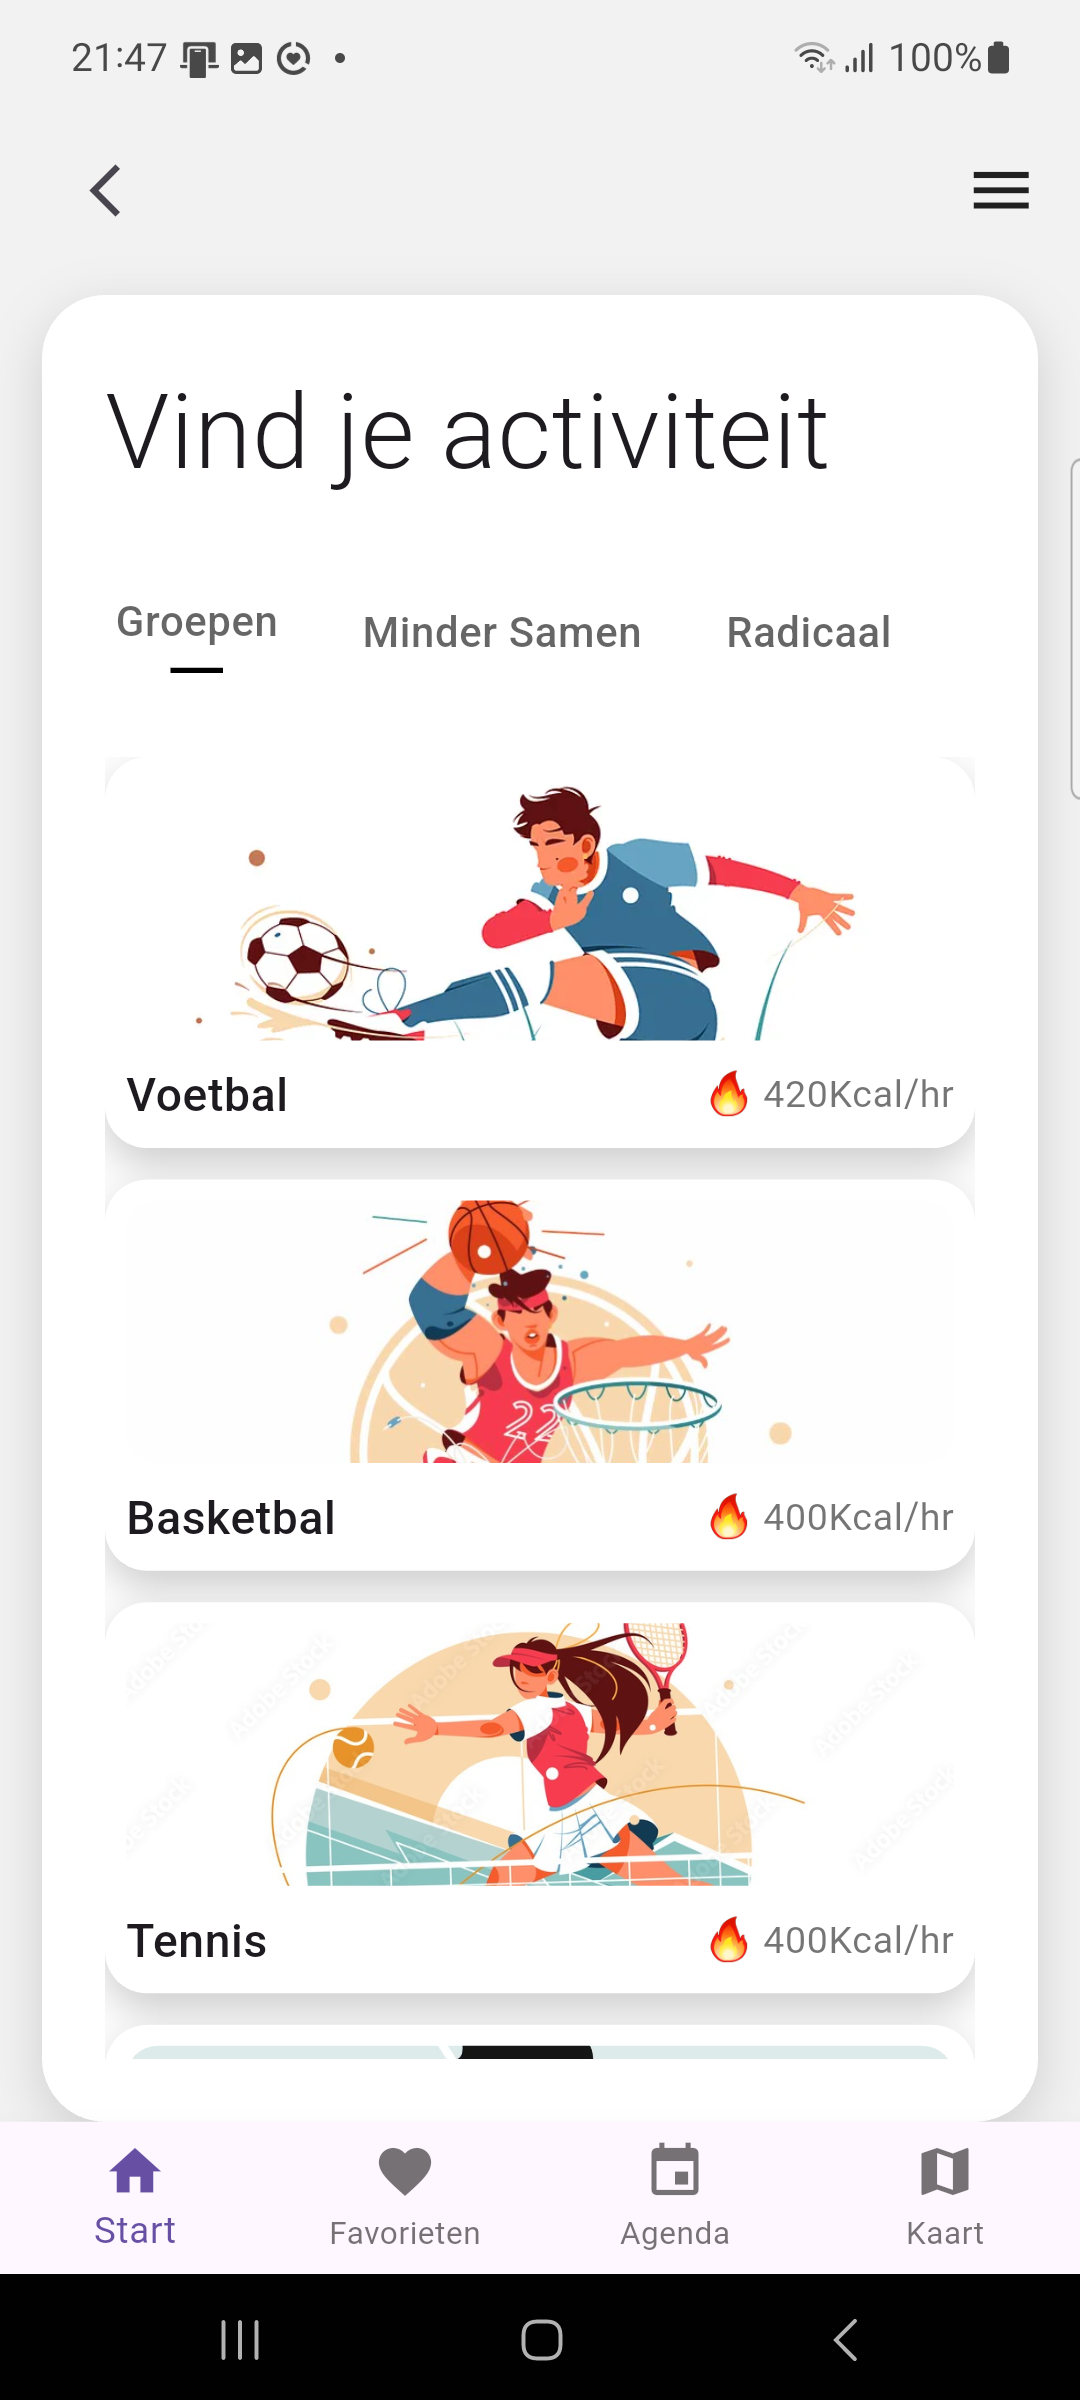
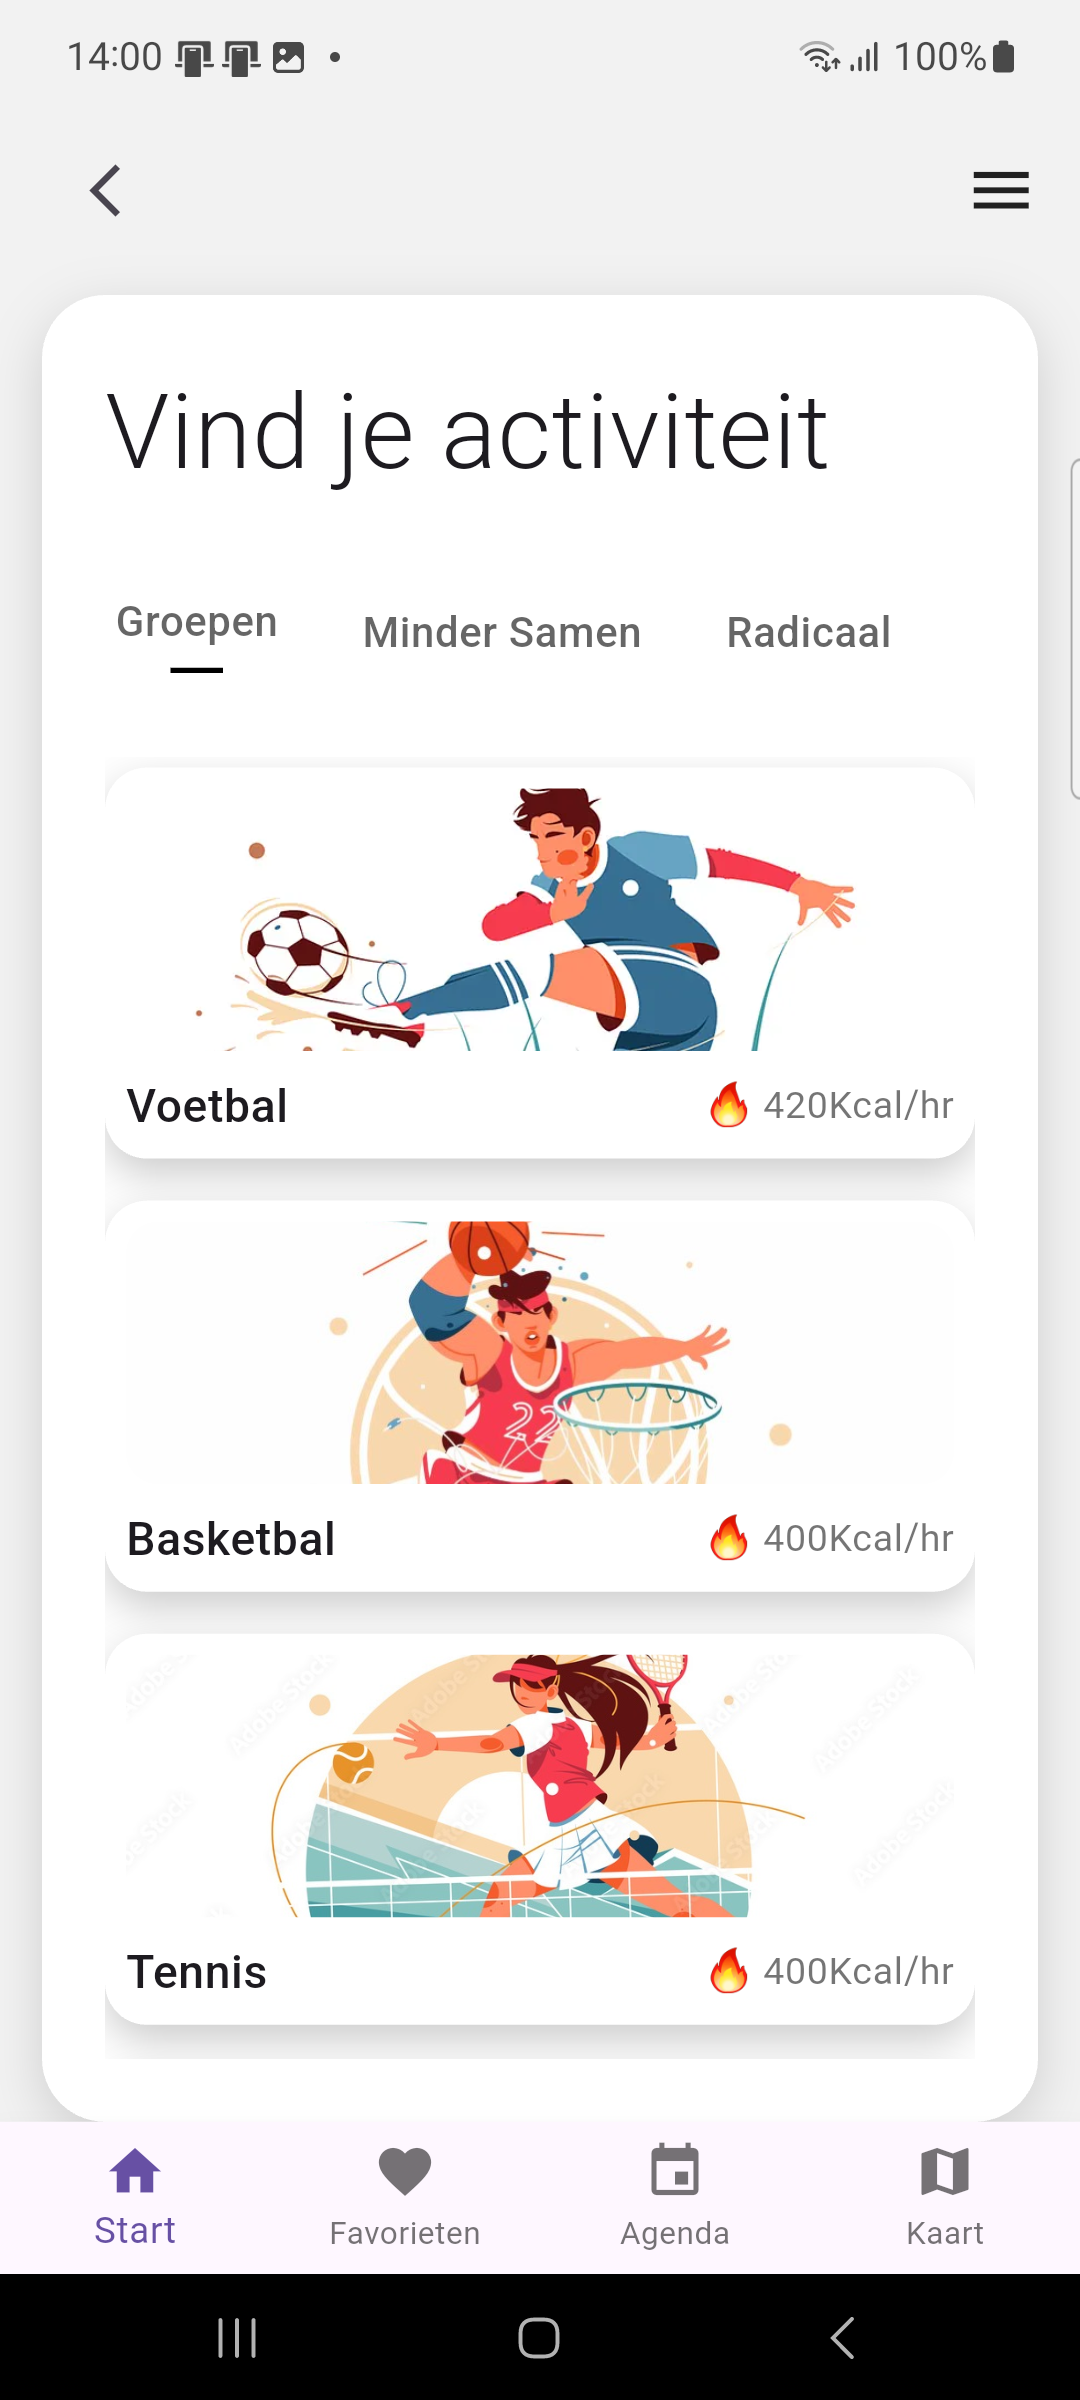
after_adding_more_sports

diff --git a/lib/screens/activities/activities_screen.dart b/lib/screens/activities/activities_screen.dart
@@ -5,8 +5,11 @@ import 'package:move_young/screens/activities/sports_screens/tennis.dart';
 import 'package:move_young/screens/activities/sports_screens/beachvolleyball.dart';
 import 'package:move_young/screens/activities/sports_screens/table_tennis.dart';
 import 'package:move_young/screens/activities/sports_screens/fitness.dart';
+import 'package:move_young/screens/activities/sports_screens/climbing.dart';
 import 'package:move_young/screens/activities/sports_screens/skateboard.dart';
 import 'package:move_young/screens/activities/sports_screens/bmx.dart';
+import 'package:move_young/screens/activities/sports_screens/motocross.dart';
+
 import 'package:move_young/widgets/activity_category_page.dart';
 import 'package:easy_localization/easy_localization.dart';
 
@@ -47,21 +50,25 @@ class _ActivitiesScreenState extends State<ActivitiesScreen> {
         'title': 'soccer',
         'image': 'assets/images/soccer.webp',
         'calories': '420Kcal/hr',
+        'align': '0,-0.4'
       },
       {
         'title': 'basketball',
         'image': 'assets/images/basketball.jpg',
         'calories': '400Kcal/hr',
+        'align': '0,-0.4'
       },
       {
         'title': 'tennis',
         'image': 'assets/images/tennis.jpg',
         'calories': '400Kcal/hr',
+        'align': '0,-0.4'
       },
       {
         'title': 'beachvolleyball',
         'image': 'assets/images/bvb.webp',
         'calories': '250Kcal/hr',
+        'align': '0,-0.4'
       },
       {
         'title': 'table_tennis',
@@ -74,18 +81,39 @@ class _ActivitiesScreenState extends State<ActivitiesScreen> {
         'title': 'fitness',
         'image': 'assets/images/fitness_station.jpg',
         'calories': '300Kcal/hr',
+        'align': '0,-0.4'
       },
+      {
+        'title': 'climbing',
+        'image': 'assets/images/climbing.webp',
+        'calories': '300Kcal/hr',
+        'align': '0,-0.4'
+      },
+      {
+        'title': 'canoeing',
+        'image': 'assets/images/canoeing.webp',
+        'calories': '300Kcal/hr',
+        'align': '0,0.2'
+      }
     ],
     'radical': [
       {
         'title': 'skateboard',
         'image': 'assets/images/skateboarding2.webp',
         'calories': '350Kcal/hr',
+        'align': '0,-0.4'
       },
       {
         'title': 'bmx',
         'image': 'assets/images/bmx.webp',
         'calories': '350Kcal/hr',
+        'align': '0,-0.4'
+      },
+      {
+        'title': 'motocross',
+        'image': 'assets/images/motocross.webp',
+        'calories': '350Kcal/hr',
+        'align': '0,-0.1'
       },
     ],
   };
@@ -115,13 +143,18 @@ class _ActivitiesScreenState extends State<ActivitiesScreen> {
       case 'fitness':
         screen = const FitnessScreen();
         break;
-
+      case 'climbing':
+        screen = const ClimbingScreen();
+        break;
       //Radical
       case 'skateboard':
         screen = const SkateboardScreen();
         break;
       case 'bmx':
         screen = const BmxScreen();
+        break;
+      case 'motocross':
+        screen = const MotocrossScreen();
         break;
     }
 

diff --git a/lib/widgets/activity_category_page.dart b/lib/widgets/activity_category_page.dart
@@ -23,6 +23,27 @@ class _ActivityCategoryPageState extends State<ActivityCategoryPage>
   @override
   bool get wantKeepAlive => true;
 
+  Alignment _parseAlignment(String? v) {
+    switch (v) {
+      case 'top':
+        return Alignment.topCenter;
+      case 'bottom':
+        return Alignment.bottomCenter;
+      case 'left':
+        return Alignment.centerLeft;
+      case 'right':
+        return Alignment.centerRight;
+      case 'center':
+        return Alignment.center;
+      default:
+        if (v == null || !v.contains(',')) return Alignment.center;
+        final parts = v.split(',');
+        final dx = double.tryParse(parts[0].trim()) ?? 0.0;
+        final dy = double.tryParse(parts[1].trim()) ?? 0.0;
+        return Alignment(dx, dy); // e.g. "0,-0.6"
+    }
+  }
+
   @override
   Widget build(BuildContext context) {
     super.build(context); // ⚠ required!
@@ -32,10 +53,13 @@ class _ActivityCategoryPageState extends State<ActivityCategoryPage>
       itemCount: widget.activities.length,
       itemBuilder: (context, index) {
         final activity = widget.activities[index];
+        final Alignment imageAlignment = _parseAlignment(activity['align']);
+
         return ActivityCard(
           title: activity['title']!.tr(),
-          imageUrl: activity['image']!,
-          calories: activity['calories']!,
+          imageUrl: activity['image'] ?? '',
+          calories: activity['calories'] ?? '',
+          imageAlignment: imageAlignment,
           onTap: () => widget.onTapActivity(activity['title']!),
         );
       },

diff --git a/lib/widgets/activity_card.dart b/lib/widgets/activity_card.dart
@@ -5,6 +5,7 @@ class ActivityCard extends StatelessWidget {
   final String imageUrl;
   final String calories;
   final VoidCallback onTap;
+  final Alignment imageAlignment;
 
   const ActivityCard({
     super.key,
@@ -12,6 +13,7 @@ class ActivityCard extends StatelessWidget {
     required this.imageUrl,
     required this.calories,
     required this.onTap,
+    this.imageAlignment = Alignment.center, // default
   });
 
   @override
@@ -19,7 +21,7 @@ class ActivityCard extends StatelessWidget {
     final isNetworkImage = imageUrl.startsWith('http');
 
     return Container(
-      margin: const EdgeInsets.only(bottom: 12),
+      margin: const EdgeInsets.only(top: 4, bottom: 12),
       decoration: BoxDecoration(
         color: Colors.white,
         borderRadius: BorderRadius.circular(16),
@@ -46,13 +48,14 @@ class ActivityCard extends StatelessWidget {
                         height: 100,
                         width: double.infinity,
                         fit: BoxFit.cover,
+                        alignment: imageAlignment,
                       )
                     : Image.asset(
                         imageUrl,
-                        alignment: const Alignment(0.0, -0.5),
                         height: 100,
                         width: double.infinity,
                         fit: BoxFit.cover,
+                        alignment: imageAlignment,
                       ),
               ),
               const SizedBox(height: 8),

diff --git a/lib/config/sport_display_registry.dart b/lib/config/sport_display_registry.dart
@@ -4,8 +4,11 @@ import 'package:move_young/screens/activities/sports_screens/tennis.dart';
 import 'package:move_young/screens/activities/sports_screens/beachvolleyball.dart';
 import 'package:move_young/screens/activities/sports_screens/table_tennis.dart';
 import 'package:move_young/screens/activities/sports_screens/fitness.dart';
+import 'package:move_young/screens/activities/sports_screens/climbing.dart';
+import 'package:move_young/screens/activities/sports_screens/canoeing.dart';
 import 'package:move_young/screens/activities/sports_screens/skateboard.dart';
 import 'package:move_young/screens/activities/sports_screens/bmx.dart';
+import 'package:move_young/screens/activities/sports_screens/motocross.dart';
 
 class SportDisplayRegistry {
   static final Map<String, Map<String, List<dynamic>>> _iconMapRegistry = {
@@ -17,9 +20,12 @@ class SportDisplayRegistry {
     'table_tennis': TableTennisDisplay.tagIcons,
     //Not so Grouped
     'fitness': FitnessDisplay.tagIcons,
+    'climbing': ClimbingDisplay.tagIcons,
+    'canoeing': CanoingDisplay.tagIcons,
     //Radical
     'skateboard': SkateboardDisplay.tagIcons,
-    'bmx': BmxDisplay.tagIcons
+    'bmx': BmxDisplay.tagIcons,
+    'motocross': MotocrossDisplay.tagIcons
   };
 
   static Map<String, List<dynamic>> getIconMap(String sportType) {

diff --git a/lib/config/sport_characteristics_registry.dart b/lib/config/sport_characteristics_registry.dart
@@ -7,14 +7,18 @@ class SportCharacteristics {
     //Grouped
     'soccer': ['surface', 'lit'],
     'basketball': ['surface', 'lit', 'hoops'],
-    'tennis': ['surface', 'lit'], //to confirm these are free and public
+    'tennis': ['lit'], //to confirm these are free and public
     'beachvolleyball': ['surface', 'lit'],
     'table_tennis': ['indoor', 'covered'],
     //Not so grouped
+    'fitness': ['lit'],
+    'climbing': [],
+    'canoeing': [],
 
     //Radical
     'skateboard': ['surface'],
-    'fitness': ['equipment'],
+    'bmx': [],
+    'motocross': []
   };
 
   //Raw OSM values
@@ -31,13 +35,18 @@ class SportCharacteristics {
       'surface': ['sand']
     },
     'table_tennis': {},
+
     //Not so grouped
     'fitness': {},
+    'climbing': {},
+    'canoeing': {},
+
     //Radical
     'skateboard': {
       'surface': ['concrete', 'wood']
     },
     'bmx': {},
+    'motocross': {}
   };
 
   static const Map<String, String> surfaceLabels = {

diff --git a/lib/screens/activities/sports_screens/climbing.dart b/lib/screens/activities/sports_screens/climbing.dart
@@ -1,0 +1,21 @@
+import 'package:flutter/material.dart';
+import 'package:move_young/screens/activities/sports_screens/generic_sport_screen.dart';
+import 'package:easy_localization/easy_localization.dart';
+
+class ClimbingScreen extends StatelessWidget {
+  const ClimbingScreen({super.key});
+
+  @override
+  Widget build(BuildContext context) {
+    return GenericSportScreen(
+      title: 'climbing'.tr(),
+      sportType: 'climbing',
+    );
+  }
+}
+
+class ClimbingDisplay {
+  static final Map<String, List<dynamic>> tagIcons = {
+    'lit': [Icons.lightbulb, Colors.amber],
+  };
+}

diff --git a/lib/screens/activities/sports_screens/motocross.dart b/lib/screens/activities/sports_screens/motocross.dart
@@ -1,0 +1,21 @@
+import 'package:flutter/material.dart';
+import 'package:move_young/screens/activities/sports_screens/generic_sport_screen.dart';
+import 'package:easy_localization/easy_localization.dart';
+
+class MotocrossScreen extends StatelessWidget {
+  const MotocrossScreen({super.key});
+
+  @override
+  Widget build(BuildContext context) {
+    return GenericSportScreen(
+      title: 'canoing'.tr(),
+      sportType: 'canoe',
+    );
+  }
+}
+
+class MotocrossDisplay {
+  static final Map<String, List<dynamic>> tagIcons = {
+    'lit': [Icons.lightbulb, Colors.amber],
+  };
+}

diff --git a/lib/screens/activities/sports_screens/canoeing.dart b/lib/screens/activities/sports_screens/canoeing.dart
@@ -1,0 +1,21 @@
+import 'package:flutter/material.dart';
+import 'package:move_young/screens/activities/sports_screens/generic_sport_screen.dart';
+import 'package:easy_localization/easy_localization.dart';
+
+class CanoingScreen extends StatelessWidget {
+  const CanoingScreen({super.key});
+
+  @override
+  Widget build(BuildContext context) {
+    return GenericSportScreen(
+      title: 'canoing'.tr(),
+      sportType: 'canoe',
+    );
+  }
+}
+
+class CanoingDisplay {
+  static final Map<String, List<dynamic>> tagIcons = {
+    'lit': [Icons.lightbulb, Colors.amber],
+  };
+}
